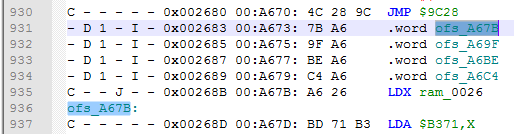
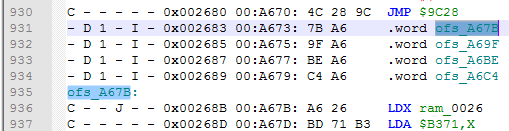
1

diff --git a/nes/en/bzk6502/5/index.html b/nes/en/bzk6502/5/index.html
@@ -214,9 +214,12 @@
             This script labels all instructions that use <text class="label">Absolute,X</text> and <text class="label">Absolute,Y</text> addressing modes, for example <text class="opcode">LDA</text> $xxxx,Y.
         </p>
         <p>
-            It uses <text class="label">Labeling range</text> argument, and won't label operands which don't fit into this range. For example with <text class="label">$8000</text> config range it will label <text class="address">$8000-$9FFF</text> range. If you want to label another range, toggle <text class="label">Labeling range</text> config script and launch <text class="label">Label tables</text> again.
+            It uses <text class="label">Labeling range</text> argument, and won't label operands which don't fit into this range. For example with <text class="label">$8000</text> config range it will label <text class="address">$8000-$9FFF</text> range.
         </p>
         <img src="18.png">
+        <p>
+            If you want to label another range, toggle <text class="label">Labeling range</text> config and launch <text class="label">Label tables</text> again. You can test ranges that are not intended for your current bank in order to occur errors on purpose, to see if there are instructions that are reading bytes from another bank.
+        </p>
         <p>
             Some of the errors that can occur is when the operand doesn't point to the table directly. For example in this particular case the start <text class="label">Y</text> value is <text class="label">FC</text>, not 00, so the actual address is <text class="address">$88D2</text> + FC = <text class="address">$89CE</text>.
         </p>
@@ -241,6 +244,9 @@
         </p>
         <p>
             Taken together <text class="label">sub_</text>, <text class="label">loc_</text> and <text class="label">ofs_</text> labels, which are all highlighted with blue syntax, you can see how exactly code gets to these locations. Also, there can be a room for optimizations, like sometimes <text class="opcode">JMP</text> can jump directly to <text class="opcode">RTS</text> (look at the <text class="opcode">loc_8A90</text> label on the previous screenshot), meaning you can use another <text class="opcode">RTS</text> instead of that <text class="opcode">JMP</text>, saving 2 bytes of space and 3 cycles.
+        </p>
+        <p>
+            And just like with <text class="label">Label tables</text> script, you can test unintended ranges to search for jumps into another bank.
         </p>
         <h3>--- OTHER ---</h3>
         <h4>Clear console</h4>
